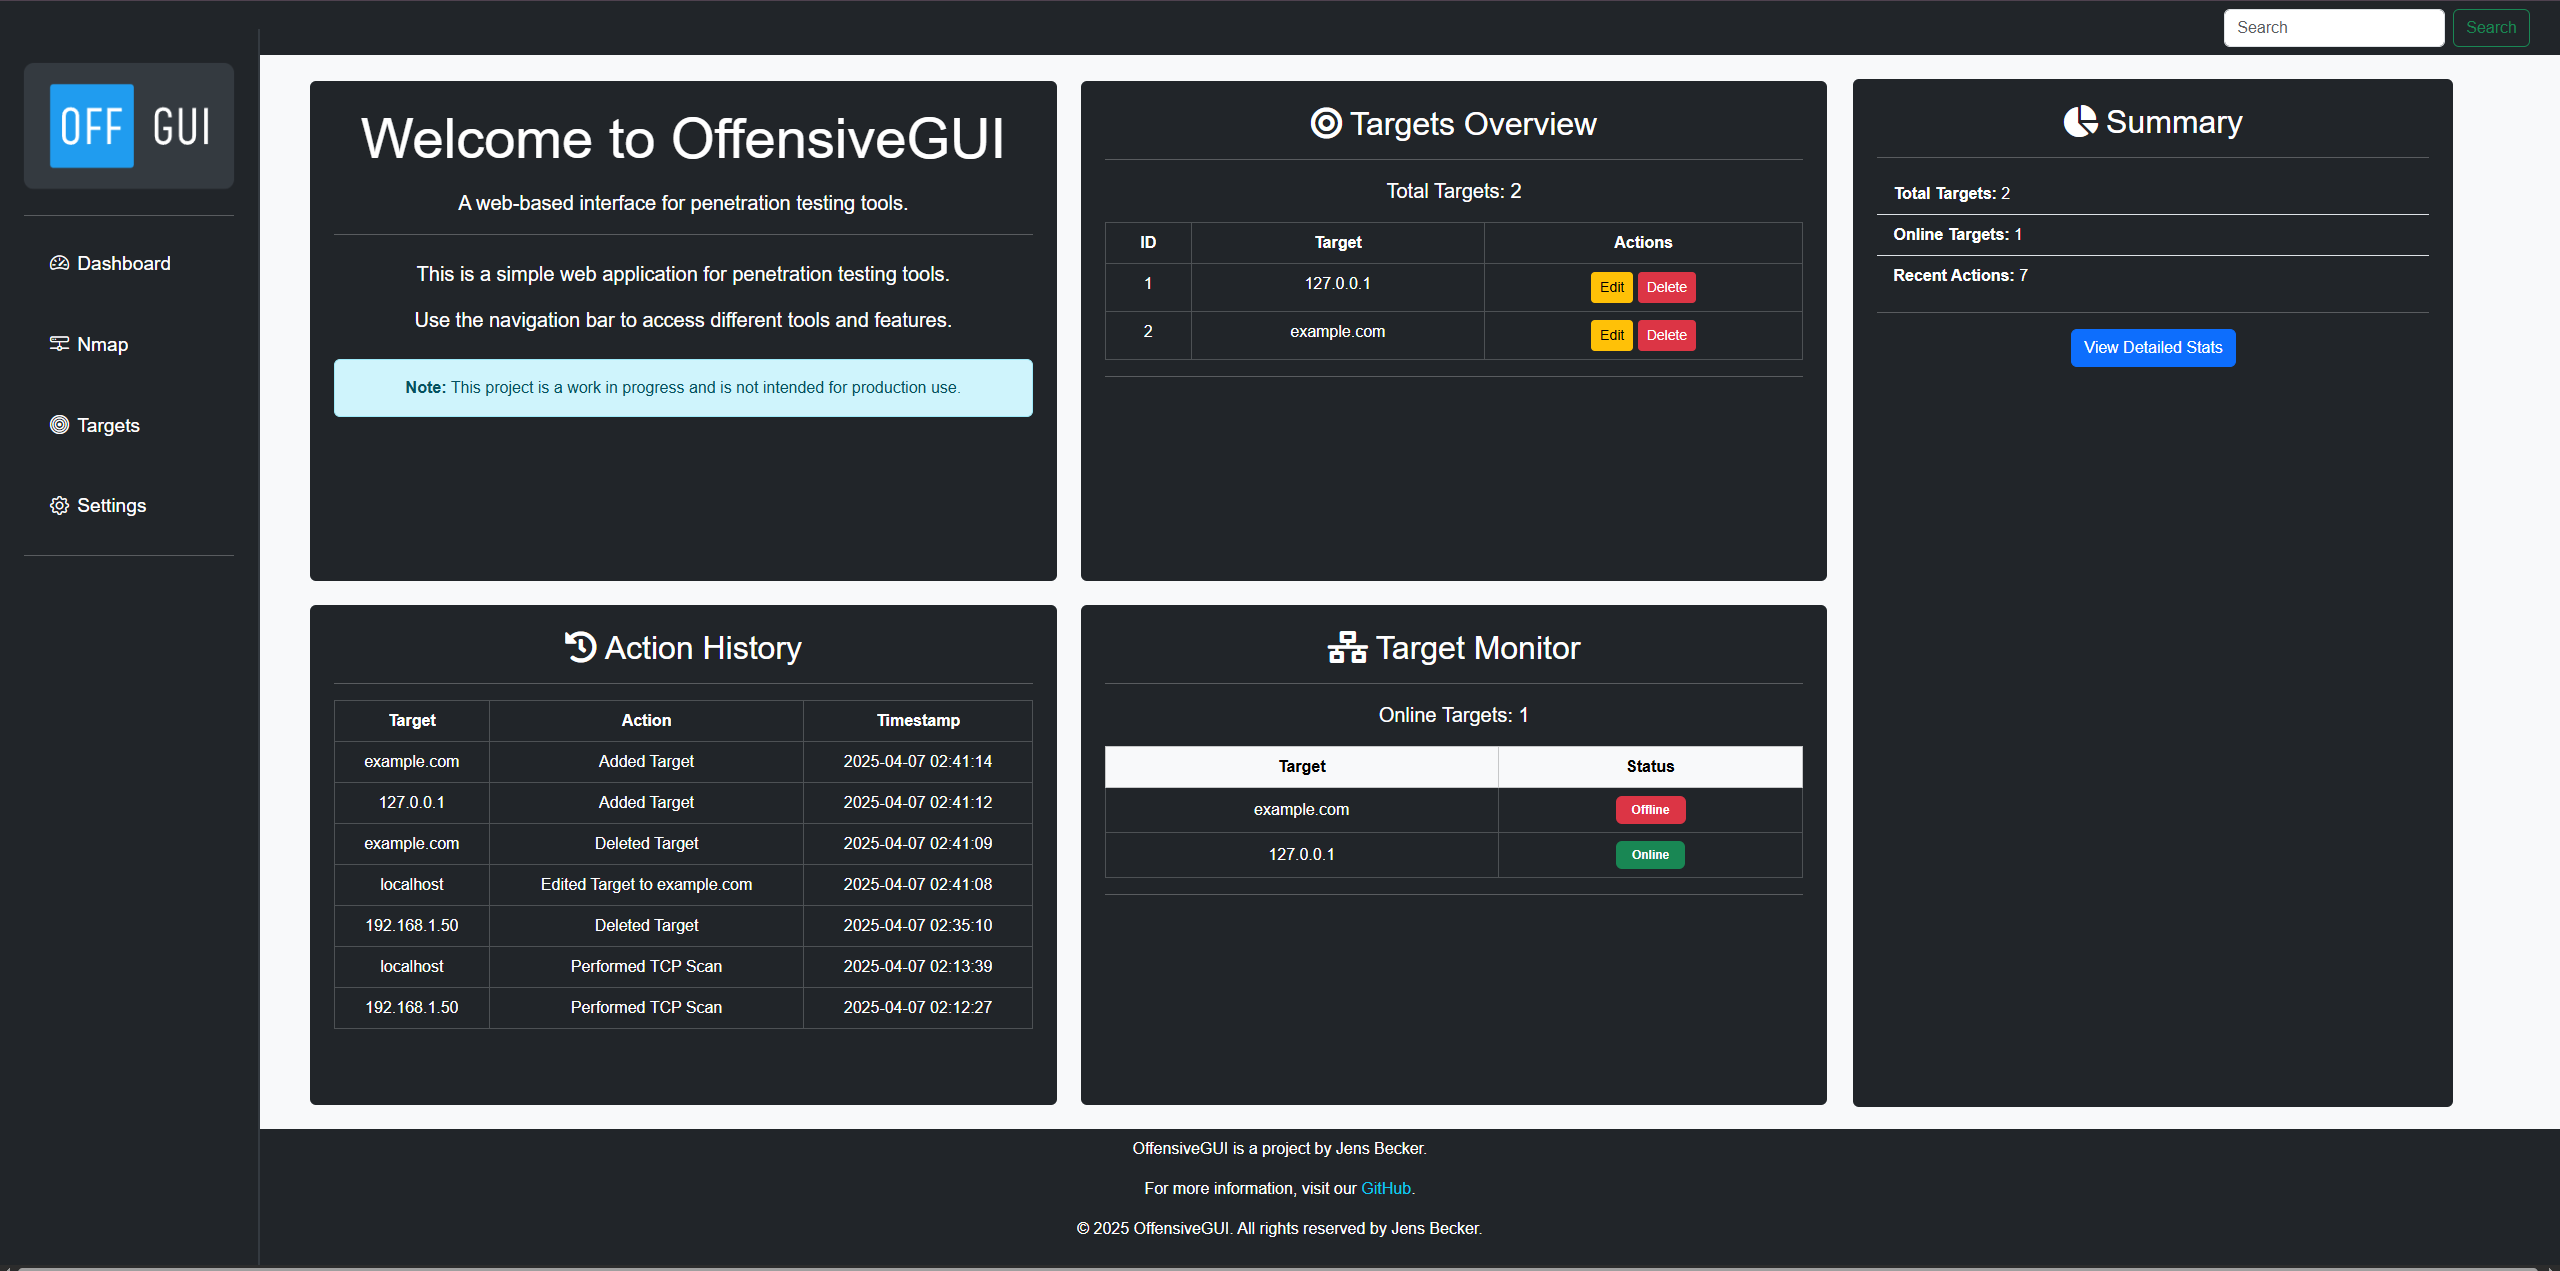
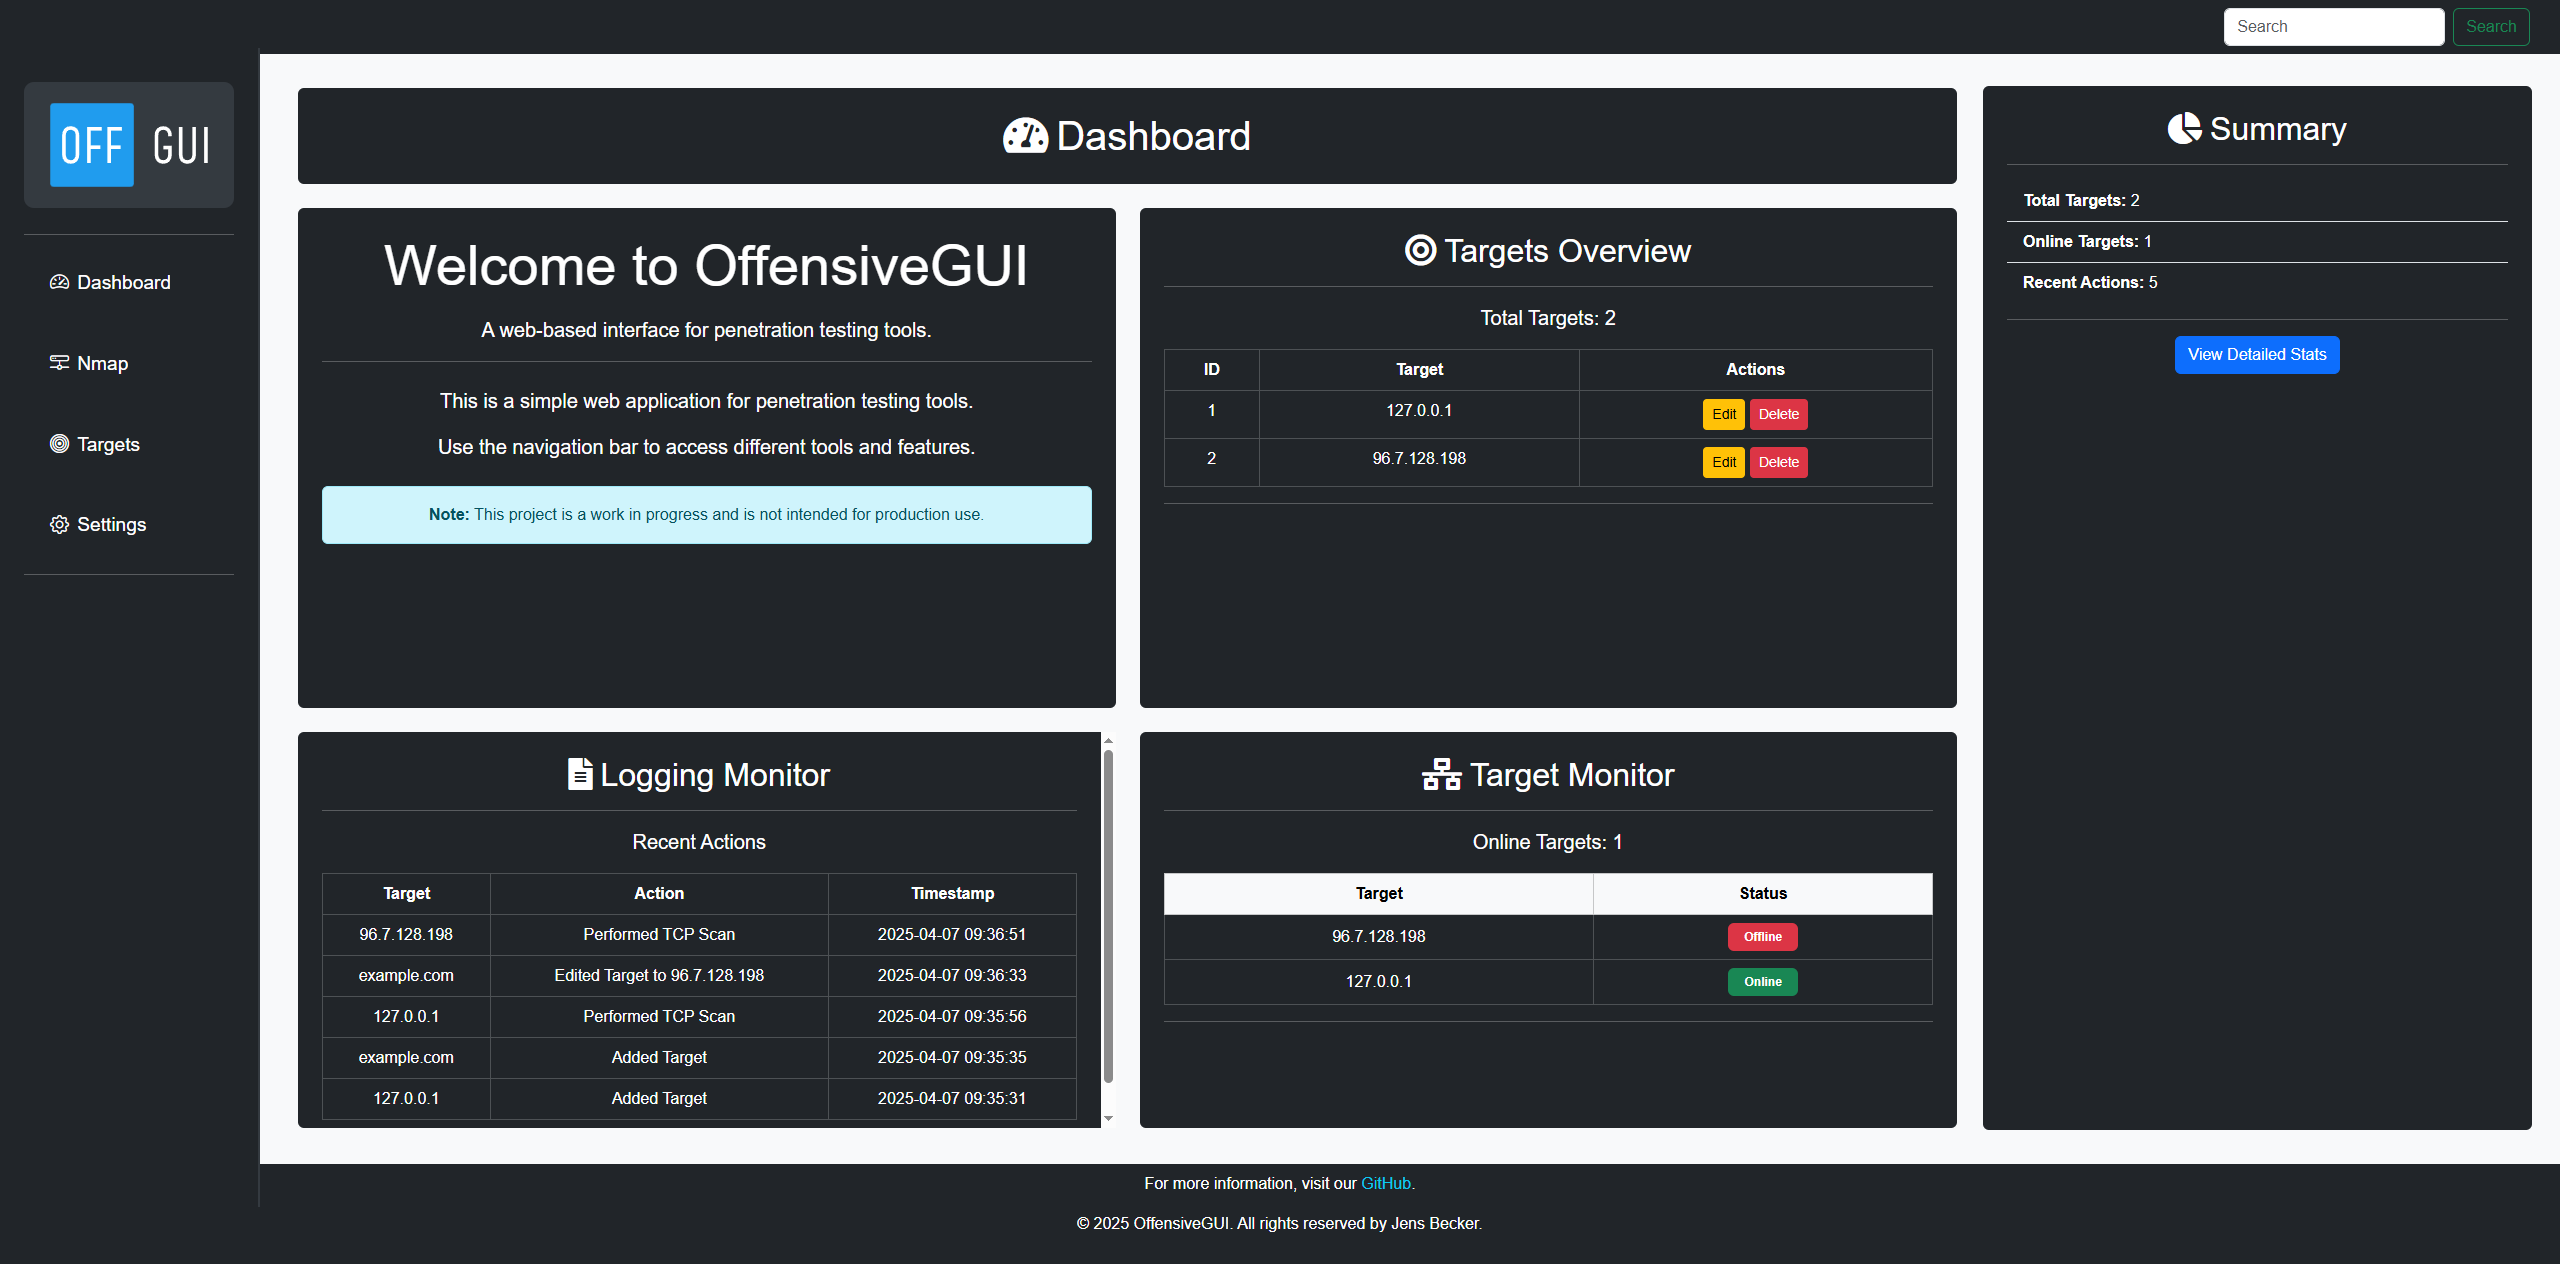
Refactor code structure for improved readability and maintainability

diff --git a/templates/index.html b/templates/index.html
@@ -7,10 +7,17 @@ Home - OffensiveGUI
 
 {% block content %}
 <div class="container-fluid">
-    <div class="row g-3 justify-content-between" style="min-height: calc(100vh - 120px);">
+    <div class="row g-3 justify-content-between pt-4" style="min-height: calc(100vh - 120px);">
         <!-- Hauptinhalt -->
         <div class="col-lg-9 order-2 order-lg-1">
             <div class="row g-4" style="min-height: auto;">
+                <div class="col-lg-12">
+                    <div class="bg-dark text-white rounded p-4 h-100 w-100 text-center">
+                        <h1 class="mb-0">
+                            <i class="fas fa-tachometer-alt me-2"></i>Dashboard
+                        </h1>
+                    </div>
+                </div>
 
                 <!-- Section 1: Welcome Container -->
                 <div class="col-lg-6">
@@ -68,7 +75,7 @@ Home - OffensiveGUI
 
                 <!-- Section 3: Logging Monitor -->
                 <div class="col-lg-6" style="padding-bottom: 2rem;">
-                    <div class="bg-dark text-white rounded p-4 h-100 w-100" style="min-height: max-height: calc(100% - 2rem); max-height: calc(100% - 2rem); overflow-y: auto;">
+                    <div class="bg-dark text-white rounded p-4 h-100 w-100" style="min-height: calc(100%-500px); max-height: calc(100% - 2rem); max-height: calc(100% - 2rem); overflow-y: auto;">
                         <h2 class="text-center">
                             <i class="fas fa-file-alt me-2"></i>Logging Monitor
                         </h2>
@@ -101,7 +108,7 @@ Home - OffensiveGUI
 
                 <!-- Section 4: Target Monitor -->
                 <div class="col-lg-6" style="padding-bottom: 2rem;">
-                    <div class="bg-dark text-white rounded p-4 h-100 w-100" style="min-height: max-height: calc(100% - 2rem); max-height: calc(100% - 2rem); overflow-y: auto;">
+                    <div class="bg-dark text-white rounded p-4 h-100 w-100" style="min-height: calc(100%-500px); max-height: calc(100% - 2rem); max-height: calc(100% - 2rem); overflow-y: auto;">
                         <h2 class="text-center">
                             <i class="fas fa-network-wired me-2"></i>Target Monitor
                         </h2>

diff --git a/app.py b/app.py
@@ -124,7 +124,7 @@ def home():
         # Fetch updated monitor results for active targets only
         monitor_results_to_display = MonitorResult.query.filter(
             MonitorResult.target.in_(active_target_values)
-        ).order_by(MonitorResult.added_time.desc()).limit(8).all()  # Fetch the last 8 targets
+        ).order_by(MonitorResult.added_time.desc()).limit(8).all()
 
         action_logs = (
             ActionLog.query.order_by(ActionLog.timestamp.desc())

diff --git a/README.md b/README.md
@@ -101,6 +101,10 @@ OffensiveGUI is a web-based application designed to simplify the use of offensiv
 
 ![alt text](screenshots/settings.png)
 
+### Targets
+
+![alt text](screenshots/targets.png)
+
 ---
 
 ## 🤝 Contributing
